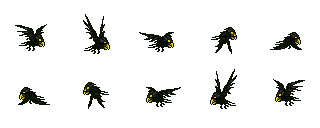
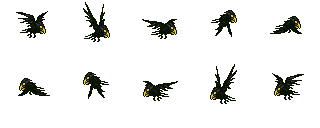
Added splash damage. Fixed an error on the crow image. Added flying attribute. Hardcoded to say that Fighters cannot attack flying...

diff --git a/PyDefense/src/Towers.py b/PyDefense/src/Towers.py
@@ -54,6 +54,9 @@ class Tower(object):
 		x,y = (self.collideBox.x + self.collideBox.width / 2, 
 			self.collideBox.y + self.collideBox.height / 2)
 		for enemy in enemies:
+			if hasattr(enemy, 'flying'):
+				if self.__class__ == FighterTower:
+					continue
 			xEnemy = enemy.collideBox.centerx
 			yEnemy = enemy.collideBox.centery
 			dist = math.hypot(x-xEnemy,y-yEnemy) - enemy.collideBox.width / 2
@@ -176,6 +179,12 @@ class MageTower(Tower):
 			attack.update()
 			if attack.is_done:
 				self.animateAttack.remove(attack)
+				#deal splash damage
+				for enemy in enemies:
+					x,y = (self.collideBox.centerx, self.collideBox.centery)
+					dist = math.hypot(x-enemy.collideBox.centerx,y-enemy.collideBox.centery) - enemy.collideBox.width / 2
+					if dist < attack.animation.current_frame.width * 2:
+						enemy.attack(self.damage / 2)
 		super(MageTower, self).update(enemies)
 			
 	def render(self, surface, Transparent=False):

diff --git a/PyDefense/src/Enemies.py b/PyDefense/src/Enemies.py
@@ -110,10 +110,8 @@ class Enemy(SpriteAnimate):
 		super(Enemy,self).update()
 		return False
 	
-# 	def render(self, surface):
-# 		x,y = self.position
-# 		surface.blit(self.currentFrame, (x - self.collideBox.width / 2, 
-# 										y - self.collideBox.width / 2))
+	def render(self,surface, position):
+		super(Enemy, self).render(surface, position)
 		
 	def applyBonuses(self, bonuses):
 		if 'health' in bonuses:
